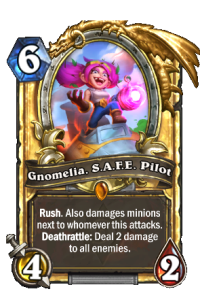
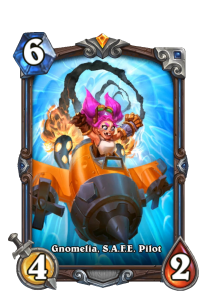
New signature cards.

diff --git a/Sources/mainwindow.cpp b/Sources/mainwindow.cpp
@@ -4937,7 +4937,7 @@ void MainWindow::testDelay()
     testSynergies();
    // testTierlists();
    // testDownloadRotation(true, "MIS_");//Force hearthpwn true
-//    Utility::resizeSignatureCards();
+   // Utility::resizeSignatureCards();
 //    Utility::mergeHSRwithFireCards();
 
 //    QTimer::singleShot(7000, this, [=] () {testSecretsHSR(arena); }); //320) lang = "enUS";
@@ -4976,7 +4976,7 @@ void MainWindow::testDelay()
     //-Si son nuevos retratos de heroe: arenaVersion.json --> "redownloadHeroes": true
     //-requiere forzar redownload cartas pq si lo ha necesitado antes habra bajado del github el heroe standard (HERO_02) y
     //-guardado como el especifico (HERO_02c), tenemos que borrarlo para que AT baje el correcto.
-///Crear new signature cards de out of cards, subirlas al github como _premium y guardarlas en HearthstoneSignatureCards (referencia ETC_081_premium)
+//Crear new signature cards de out of cards, subirlas al github como _premium y guardarlas en HearthstoneSignatureCards (referencia ETC_081_premium)
     //Update DraftHandler::isSignatureCard
 //Update secrets
 //Cartas especiales --> SynergyHandler::testSynergies()

diff --git a/Sources/utility.cpp b/Sources/utility.cpp
@@ -1150,9 +1150,9 @@ void Utility::resizeSignatureCards()
     for(const QString &file: (const QStringList)dir.entryList())
     {
         QImage webImage(goldenDir + "/" + file);
-//        webImage = webImage.scaledToWidth(218, Qt::SmoothTransformation);
-        webImage = webImage.scaledToHeight(266, Qt::SmoothTransformation);
-        webImage = webImage.copy(-8, -26, 200, 304);
+        webImage = webImage.scaledToWidth(192, Qt::SmoothTransformation);
+        // webImage = webImage.scaledToHeight(266, Qt::SmoothTransformation);
+        webImage = webImage.copy(-7, -32, 200, 304);
 
         if(!webImage.save(goldenDir + "/Resized/" + file, "png"))
         {
